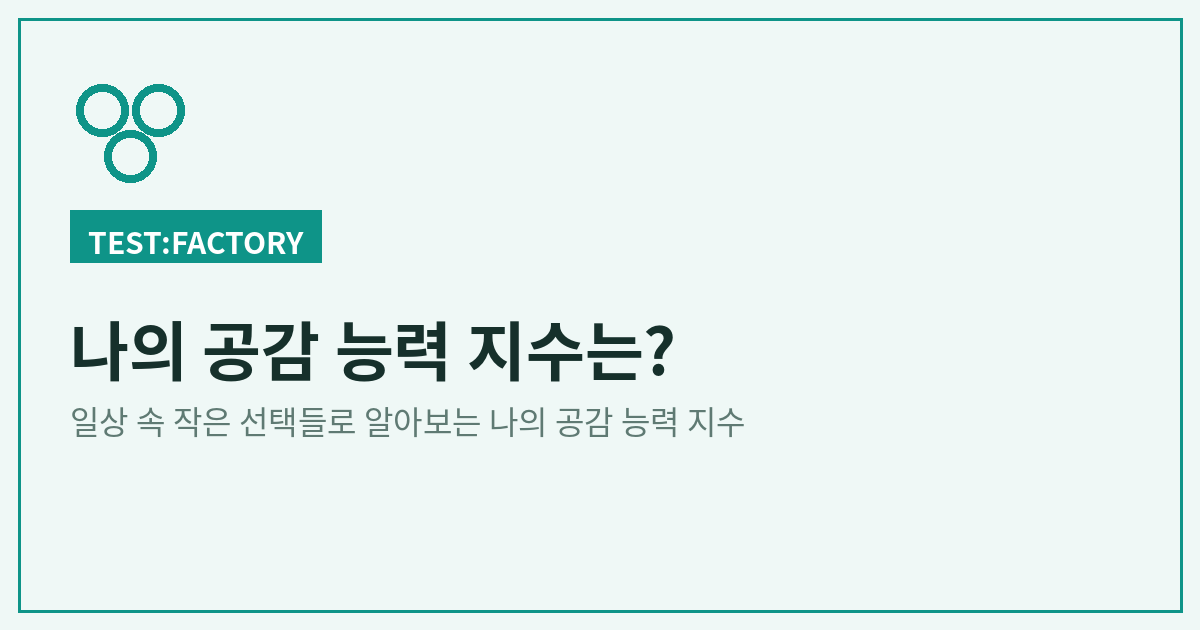
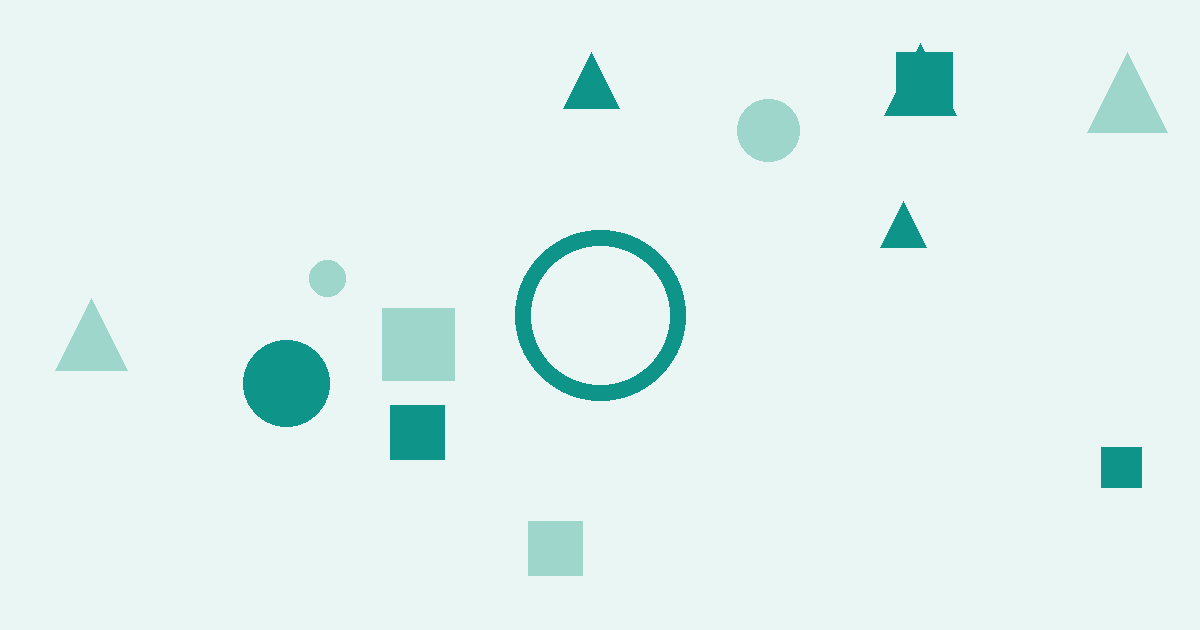
수정: 신규 3종 썸네일을 사이트 컨벤션(무텍스트 심볼) 스타일로 재생성 + 데스크톱 5열 그리드

diff --git a/index.html b/index.html
@@ -83,6 +83,9 @@ main{padding-bottom:70px;}
 @media(min-width:768px){
   .grid{grid-template-columns:repeat(3,1fr);gap:14px;}
 }
+@media(min-width:1024px){
+  .grid{grid-template-columns:repeat(5,1fr);gap:14px;}
+}
 
 /* ===== 티켓 카드 ===== */
 .ticket{
